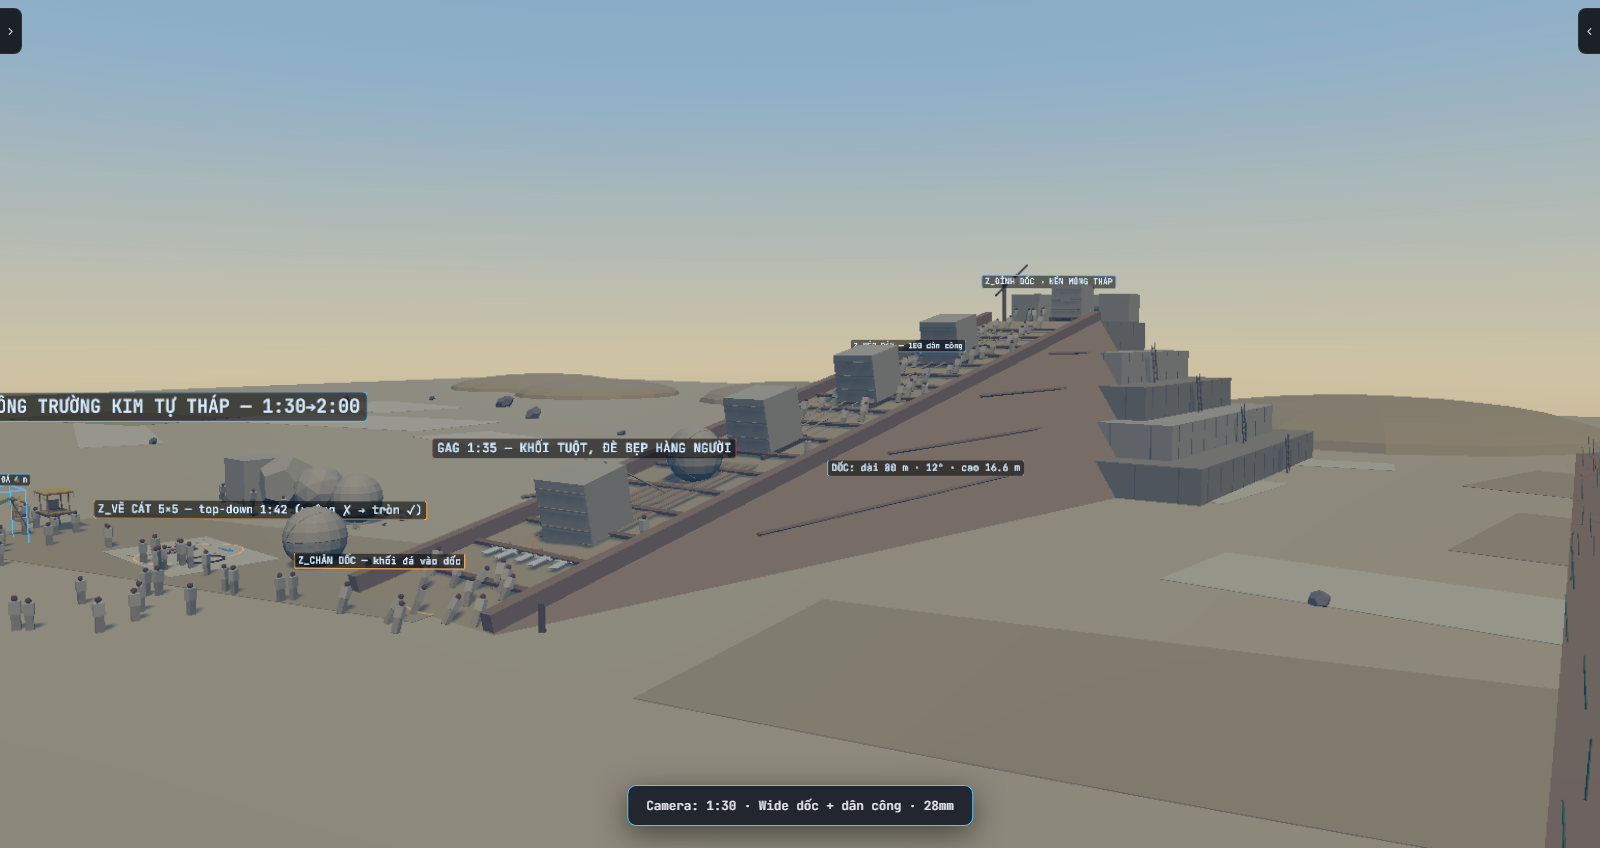
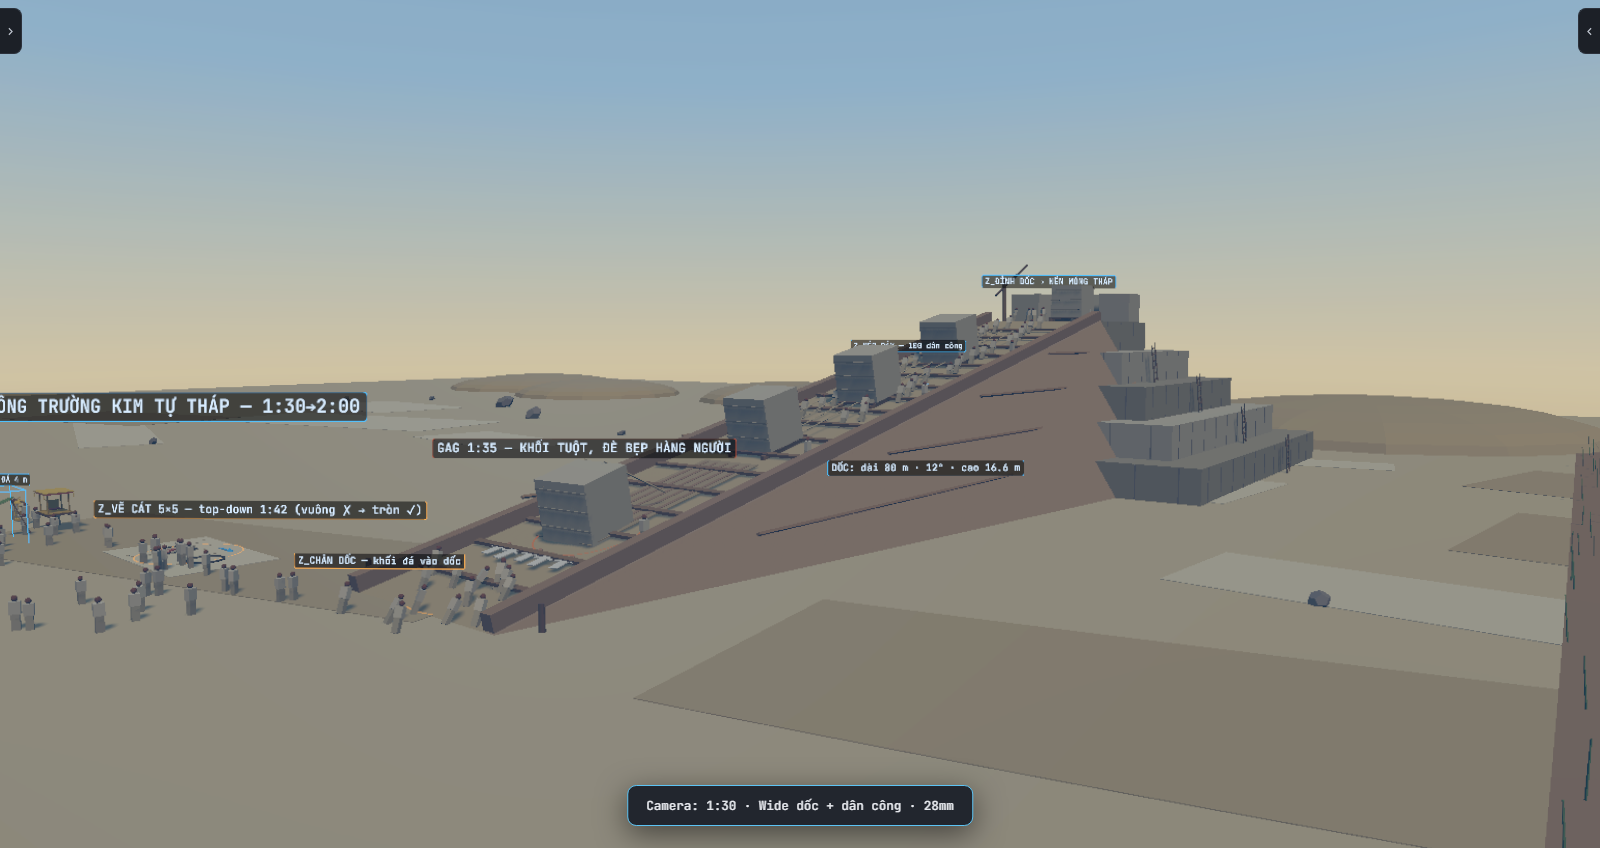
C5: dau canh chi co khoi da VUONG, cau da + tram duc la trang thai sau 1:45
Theo kich ban: dan cong keo khoi vuong (1:30-1:42), Coppa ve hinh tron roi
moi duc thanh cau (~1:45). Truoc do set bat san 2 cau da + tram duc vuong->
cau ngay tu dau canh -> sai continuity.

- 2 bo phan cau da va tram duc doi ten "SAU 1:45 · ..." va TAT SAN
- Bookmark 1:50 / 1:57 ghi chu "(bat SAU 1:45)"; ghi chu khoi giai thich
- Anh render previz/out: 1:50 va 1:57 xuat voi trang thai SAU, cac goc
  truoc do chi co khoi vuong

Changed region(s): [[0.125, 0.5212, 0.25, 0.6745], [0.4062, 0.4906, 0.4688, 0.5825]]

diff --git a/jenny-pixel-studio.html b/jenny-pixel-studio.html
@@ -4985,11 +4985,11 @@ const C5_PARTS=[
   {k:'c5_workers',    p:[45,0,42]},
   {k:'c5_slip',       p:[45,0,42]},
   {k:'c5_zones',      p:[45,0,42]},
-  {k:'c5_ball',       p:[45,4.68,20], ry:0, l:'Cầu đá — đang lăn lên dốc'},
-  {k:'c5_ball',       p:[30,0,40], l:'Cầu đá — vừa đục xong'},
+  {k:'c5_ball',       p:[45,4.68,20], ry:0, l:'SAU 1:45 · Cầu đá lăn lên dốc', hidden:true},
+  {k:'c5_ball',       p:[30,0,40], l:'SAU 1:45 · Cầu đá vừa đục xong', hidden:true},
   {k:'c5_sandpad',    p:[20,0,44]},
   {k:'c5_padzone',    p:[20,0,44]},
-  {k:'c5_chisel',     p:[8,0,30]},
+  {k:'c5_chisel',     p:[8,0,30], l:'SAU 1:45 · Trạm đục vuông → cầu', hidden:true},
   {k:'c5_onlookers',  p:[22,0,52]},
   {k:'c5_palanquin',  p:[2,0,47], ry:Math.PI/2},
   {k:'c5_cagecarry',  p:[-5,0,47.6], ry:Math.PI/2}
@@ -5005,8 +5005,8 @@ const C5_CAMS=[
   {t:'1:30',n:'Wide dốc + dân công',      p:[95,15,72],    tg:[45,8,8],    f:28},
   {t:'1:35',n:'Khối tuột đè hàng người',  p:[62,4.5,44],   tg:[45,2.2,32], f:50},
   {t:'1:42',n:'Top-down Coppa vẽ cát',    p:[20,15,44.3],  tg:[20,0,44],   f:35},
-  {t:'1:50',n:'Cầu đá lăn lên dốc',       p:[68,8,38],     tg:[45,5,20],   f:40},
-  {t:'1:57',n:'Pharaoh rắc vàng lên Coppa',p:[9,2.8,55],   tg:[2,1.9,47],  f:50}
+  {t:'1:50',n:'Cầu đá lăn lên dốc (bật SAU 1:45)',p:[68,8,38], tg:[45,5,20],   f:40},
+  {t:'1:57',n:'Pharaoh rắc vàng (bật SAU 1:45)',p:[9,2.8,55],  tg:[2,1.9,47],  f:50}
 ];
 const BOTH_CAMS=[
   {t:'—',n:'Tổng thể 2 bối cảnh',   p:[10,64,175], tg:[5,6,10],  f:28},
@@ -5164,7 +5164,7 @@ const SET_DEFS={
   },
   setC5:{
     label:'C5 · Công trường kim tự tháp',
-    note:'Riêng công trường (đã dời về gốc toạ độ).',
+    note:'Riêng công trường (đã dời về gốc toạ độ). ĐẦU CẢNH chỉ có khối đá VUÔNG. Cầu đá + trạm đục là trạng thái SAU khi Coppa vẽ hình tròn (~1:45) — bật 3 dòng "SAU 1:45" trong danh sách bộ phận.',
     parts:[{k:'eg_sky',p:[-20,0,0]},{k:'eg_sand',p:[-20,0,0]},{k:'eg_nile',p:[95,0,0]},
            ...C5_PARTS.map(o=>({...o,p:[o.p[0]-25,o.p[1],o.p[2]]})),
            {k:'eg_scaleref',p:[-28,0,52]}],
